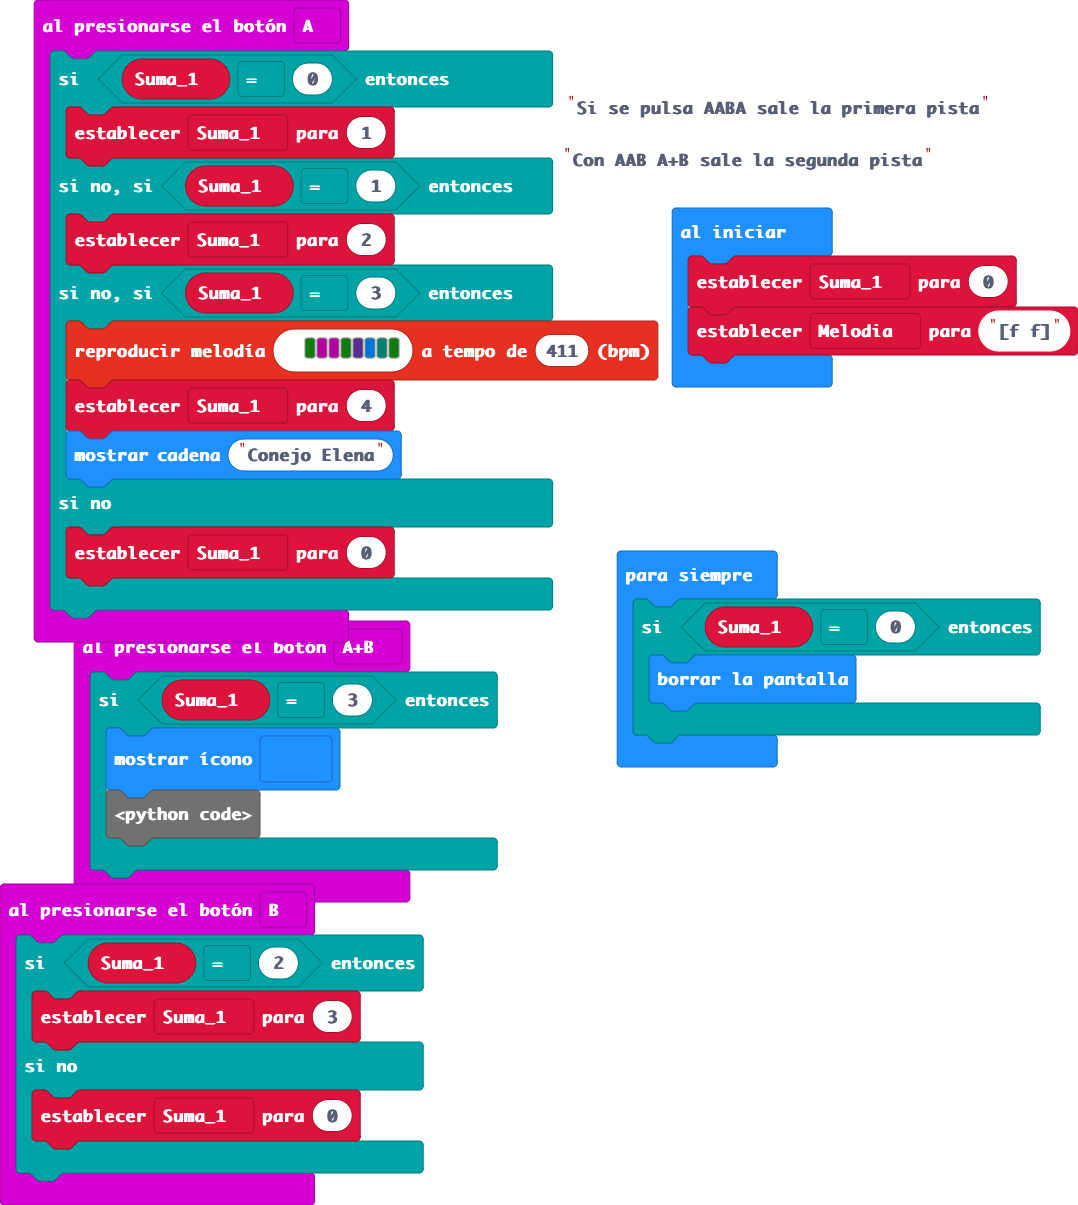
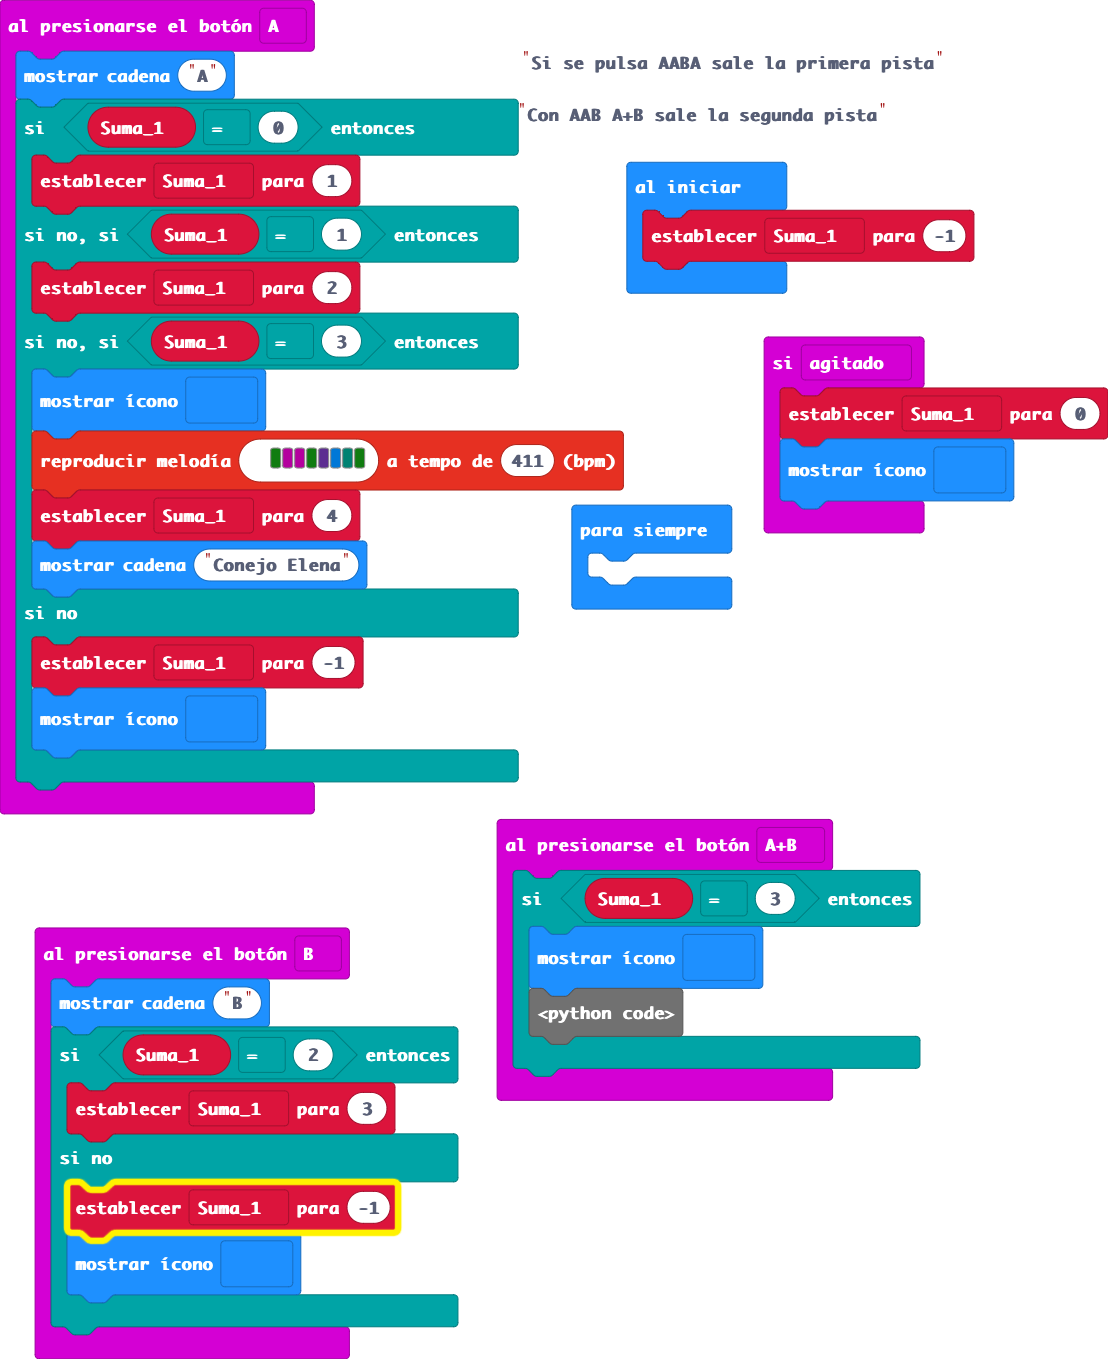
Actualizar main.blocks, main.ts

diff --git a/main.ts b/main.ts
@@ -1,15 +1,22 @@
 input.onButtonPressed(Button.A, function () {
+    basic.showString("A")
     if (Suma_1 == 0) {
         Suma_1 = 1
     } else if (Suma_1 == 1) {
         Suma_1 = 2
     } else if (Suma_1 == 3) {
+        basic.showIcon(IconNames.Yes)
         music.playMelody("G C C G D E F G ", 411)
         Suma_1 = 4
         basic.showString("Conejo Elena")
     } else {
-        Suma_1 = 0
+        Suma_1 = -1
+        basic.showIcon(IconNames.No)
     }
+})
+input.onGesture(Gesture.Shake, function () {
+    Suma_1 = 0
+    basic.showIcon(IconNames.Happy)
 })
 input.onButtonPressed(Button.AB, function () {
     if (Suma_1 == 3) {
@@ -18,17 +25,16 @@ input.onButtonPressed(Button.AB, function () {
     }
 })
 input.onButtonPressed(Button.B, function () {
+    basic.showString("B")
     if (Suma_1 == 2) {
         Suma_1 = 3
     } else {
-        Suma_1 = 0
+        Suma_1 = -1
+        basic.showIcon(IconNames.No)
     }
 })
 let Suma_1 = 0
-Suma_1 = 0
-let Melodia = "[f f]"
+Suma_1 = -1
 basic.forever(function () {
-    if (Suma_1 == 0) {
-        basic.clearScreen()
-    }
+	
 })
